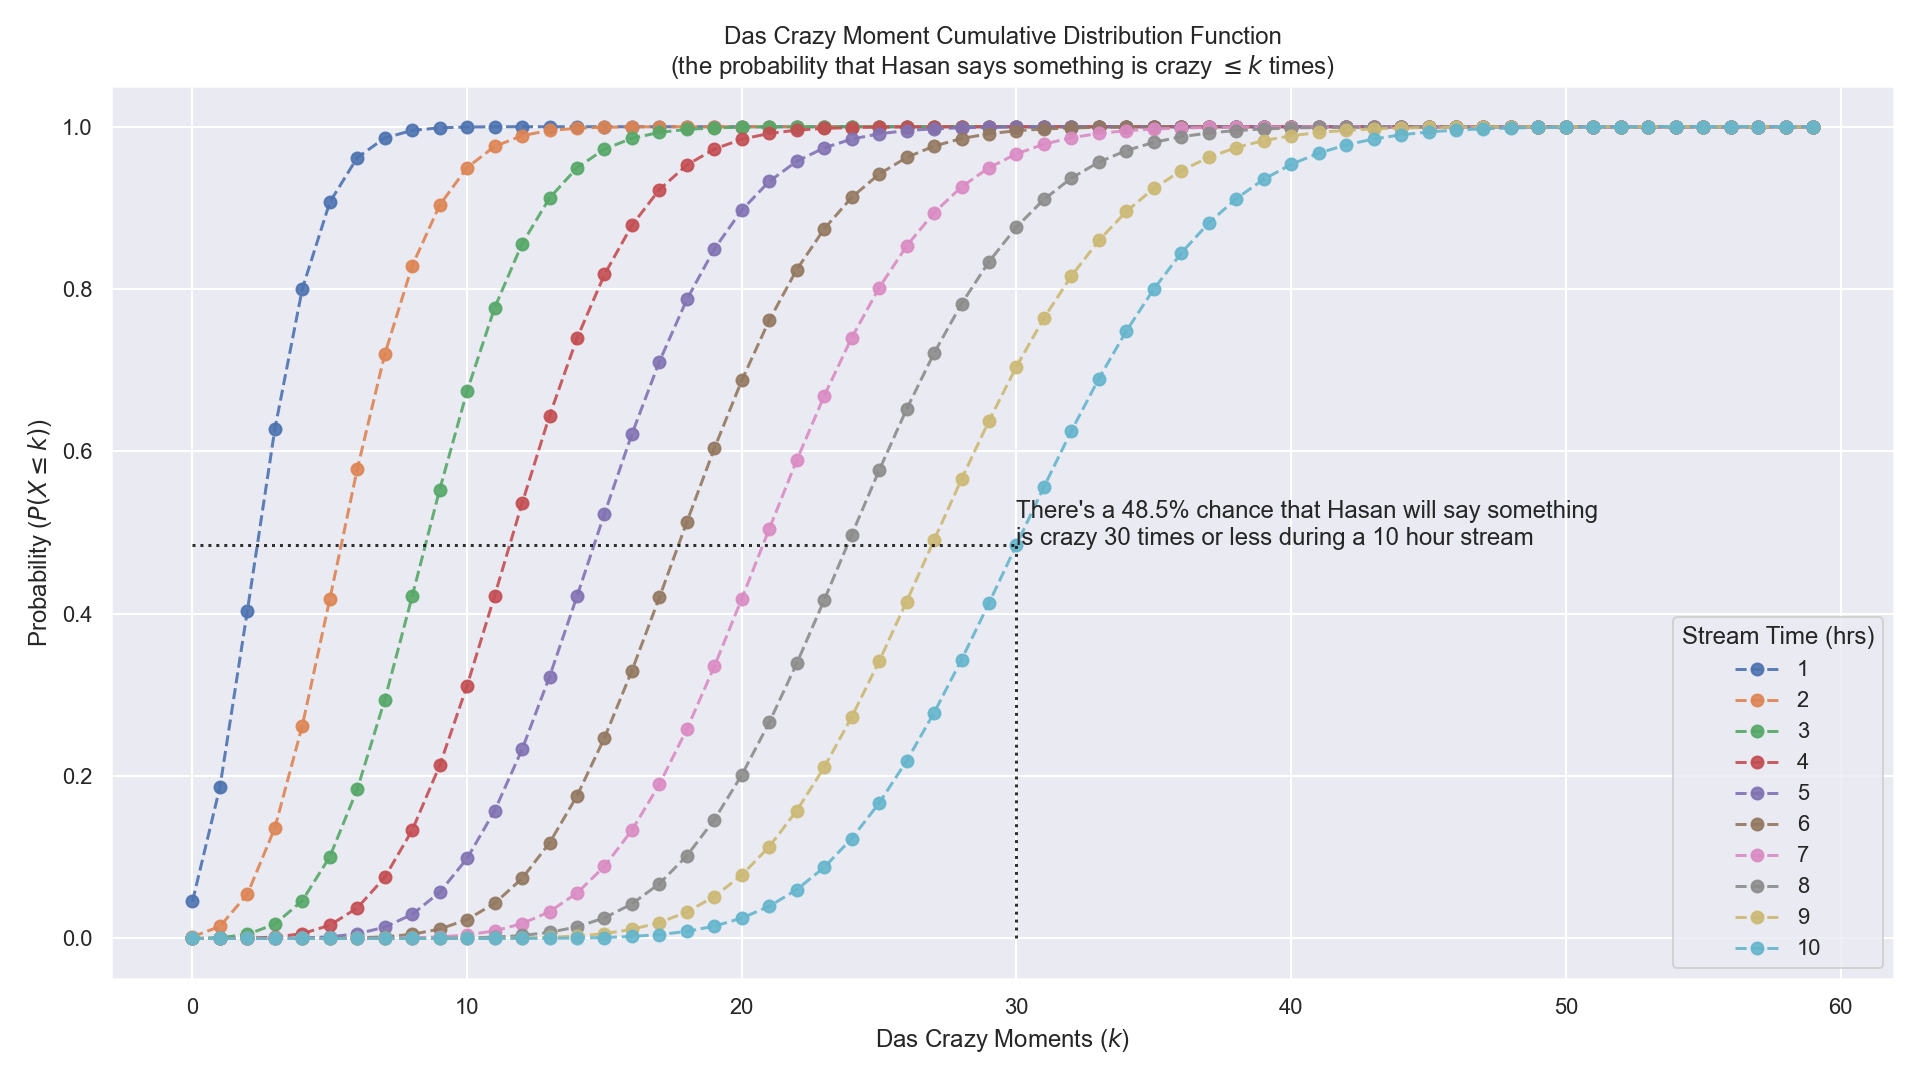
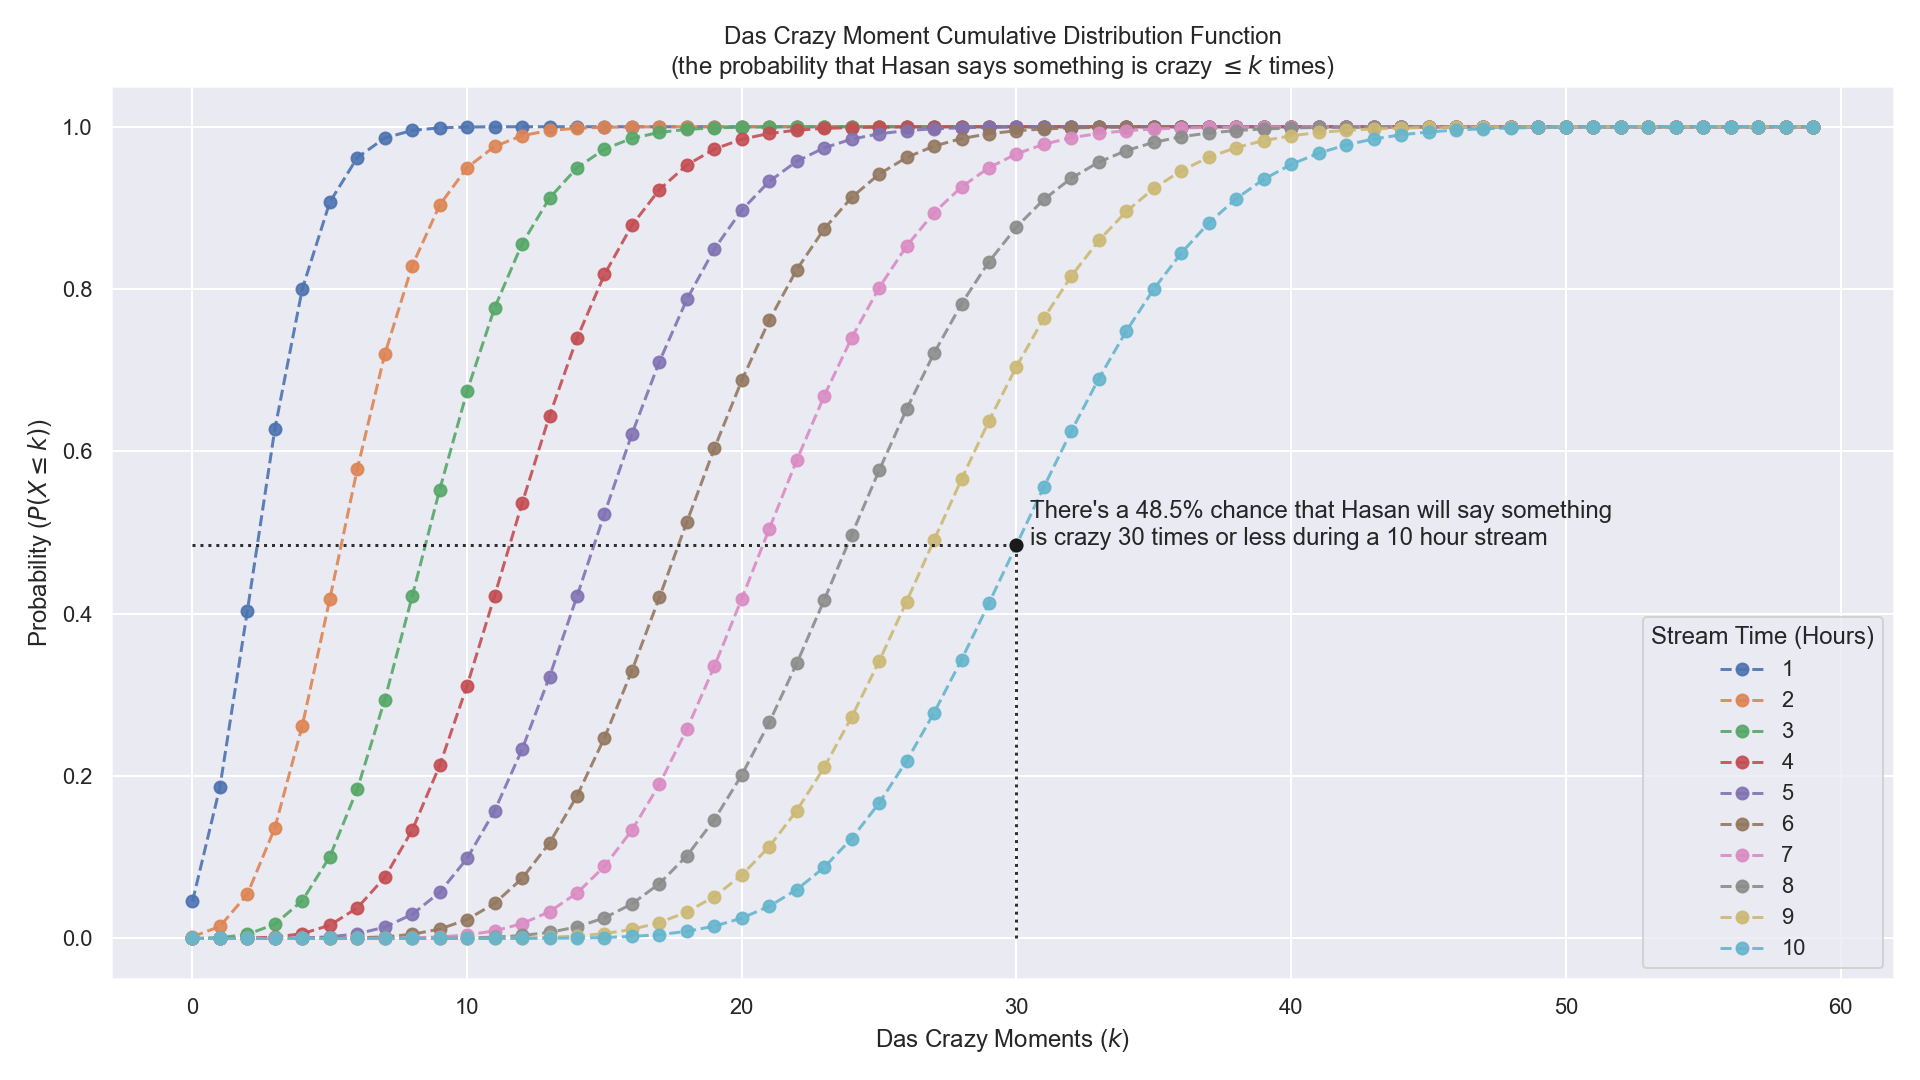
Edited poisson graphs, added timeline visual

Changed region(s): [[0.5312, 0.4583, 0.8438, 0.5194], [0.8438, 0.5806, 0.9688, 0.8861]]

diff --git a/main.py b/main.py
@@ -1,18 +1,22 @@
 from collections import Counter
 from datetime import date, timedelta
-from typing import Annotated, Optional, Sequence, TypeVar
+from typing import Annotated, Callable, Optional, Sequence, TypeVar
 
 import matplotlib as mpl
+import matplotlib.dates as mdates
 import matplotlib.pyplot as plt
 import numpy as np
 import pandas as pd
 import seaborn
-from matplotlib.colors import ListedColormap
 from scipy.stats import poisson
 
 from util import load
 
 seaborn.set()
+
+# Top 100 chat users
+with open("./data/top100_users.txt", "r") as f:
+    TOP100_USERS = {line.strip() for line in f}
 
 # Figure size configuration
 # Used to convert matplotlib figsize dimensions to pixels
@@ -27,7 +31,7 @@ MOMENT_RATE = 0.000857682
 DAYS = ("SUN", "MON", "TUE", "WED", "THU", "FRI", "SAT")
 
 # Custom colormap for user mentions plot
-CMAP_BIFLAG = ListedColormap(mpl.cm.plasma(np.linspace(0.0, 0.5, 256)))
+CMAP_BIFLAG = mpl.colors.ListedColormap(mpl.cm.plasma(np.linspace(0.0, 0.5, 256)))
 
 # Type vars
 Hours = TypeVar("Hours")
@@ -43,6 +47,32 @@ def init_plot() -> tuple[mpl.figure.Figure, mpl.axes.Axes]:
     return plt.subplots(figsize=(FIG_WIDTH, FIG_HEIGHT), tight_layout=True, dpi=DPI)
 
 
+def line_segment(ax: mpl.axes.Axes, xy1: tuple[float, float], xy2: tuple[float, float]) -> None:
+    """
+    Plot a line segment
+
+    Args:
+        ax: Axes to plot on
+        xy1: Starting coordinate
+        xy2: Ending coordinate
+    """
+    ax.plot((xy1[0], xy2[0]), (xy1[1], xy2[1]), ":", color="k", alpha=0.9)
+
+
+def trace_coordinate(ax: mpl.axes.Axes, xy: tuple[float, float]) -> None:
+    """
+    Plot line segments converging to a single coordinate
+
+    Args:
+        ax: Axes to plot on
+        xy: Coordinate to converge on
+    """
+    x, y = xy
+    line_segment(ax, (x, 0), (x, y))
+    line_segment(ax, (0, y), (x, y))
+    ax.plot(x, y, "o", color="k")
+
+
 def user_mentions(df: pd.DataFrame, top: int = 25) -> None:
     """
     Plots a frequency chart of the top peepoHas users
@@ -56,13 +86,78 @@ def user_mentions(df: pd.DataFrame, top: int = 25) -> None:
     freqs = df["user"].value_counts().drop("braedynl_")[:top]
     y_pos = np.arange(top - 1, -1, -1)
 
-    ax.barh(y_pos, freqs.values, color=np.flipud(CMAP_BIFLAG(np.linspace(0, 1, 25))))
+    ax.barh(y_pos, freqs.values, color=np.flipud(CMAP_BIFLAG(np.linspace(0, 1, top))))
     ax.set_yticks(y_pos)
     ax.set_yticklabels(freqs.index)
 
-    ax.set_title(f"Top {top} 'peepoHas' Users")
+    # Drawing a line marking the end of the top user's freq bar
+    user, x, y = freqs.index[0], freqs.values[0], y_pos[0]
+    line_segment(ax, (x, 0), (x, y))
+
+    ax.text(
+        x - 1, y / 2, f"Top peepoHas user during the analysis period\n'{user}' with ~{x} peepoHas mentions!", ha="right"
+    )
+
+    # Coloring top 100 user tick labels red
+    ticklabels = ax.get_yticklabels()
+    for ticklabel in ticklabels:
+        if ticklabel.get_text() in TOP100_USERS:
+            ticklabel.set_color("C3")
+
+    ax.set_title(
+        f"Top {top} 'peepoHas' Users\n(red username = among the top 100 users with the most messages sent in Hasan's chat)"
+    )
     ax.set_xlabel("Mentions")
     ax.set_ylabel("User")
+
+    plt.show()
+
+
+def das_crazy_timeline(df: pd.DataFrame) -> None:
+    """
+    Plots days versus time with a marker signifying every das crazy moment
+
+    Args:
+        df: Chat-log dataset
+    """
+
+    # Matplotlib doesn't allow you to make a purely time-based axis, you HAVE to pair it with a date,
+    # so there's a lot of odd workarounds that you'll see here (I just chose the Unix epoch)
+
+    ts_start = pd.Timestamp("1970-01-01 14:00:00")
+    ts_stop = pd.Timestamp("1970-01-01 23:59:59")
+
+    days = sorted(list({date(ts.year, ts.month, ts.day) for _, ts in df["sent"].iteritems()}))
+    times = pd.date_range(ts_start, ts_stop, freq="S")
+
+    occur_map = pd.DataFrame(index=times, columns=days, dtype=int).fillna(0)
+
+    for _, ts in df["sent"].iteritems():
+        time = pd.Timestamp(year=1970, month=1, day=1, hour=ts.hour, minute=ts.minute, second=ts.second)
+        day = date(year=ts.year, month=ts.month, day=ts.day)
+        occur_map.at[time, day] = 1
+
+    fig, ax = init_plot()
+
+    # ax.hlines(range(len(occur_map.columns)), ts_start, ts_stop, color="k")
+
+    for y_pos, col in enumerate(occur_map.columns, start=-1):
+        occur = occur_map[col][occur_map[col] == 1] + y_pos
+        ax.plot(occur.index, occur.values, "-o", color="k", markerfacecolor="w")
+
+    ax.set_yticks(range(len(occur_map.columns)))
+    ax.set_yticklabels(occur_map.columns)
+
+    hours = mdates.HourLocator(interval=1)
+    h_fmt = mdates.DateFormatter("%I %p")
+    ax.xaxis.set_major_locator(hours)
+    ax.xaxis.set_major_formatter(h_fmt)
+
+    ax.set_xlim((ts_start, ts_stop + timedelta(seconds=1)))
+
+    ax.set_title("Das Crazy Moment Timeline\n(each dot = Hasan said something was crazy)")
+    ax.set_xlabel("Time (Eastern)")
+    ax.set_ylabel("Date")
 
     plt.show()
 
@@ -115,7 +210,7 @@ def das_crazy_heatmap(df: pd.DataFrame) -> None:
 
 
 def das_crazy_distribution(
-    poisson_func,
+    poisson_func: Callable[[Sequence[int], float], Sequence[float]],
     time_range: Sequence[Annotated[float, Hours]],
     moment_range: Sequence[int],
     title: Optional[str] = None,
@@ -135,16 +230,18 @@ def das_crazy_distribution(
     """
     fig, ax = init_plot()
 
+    # Using the derived Poisson mu, mu = r*t, where r is the event rate and t is an interval of time
+    # in this case, r being the rate of crazy mentions and t being the length of the stream
     for time in time_range:
         mu = MOMENT_RATE * (time * 3600)
         prob_range = poisson_func(moment_range, mu)
-        ax.plot(moment_range, prob_range, "o--", label=f"{time}", alpha=0.9)
+        ax.plot(moment_range, prob_range, "o--", label=time, alpha=0.9)
 
     ax.set_title(title)
     ax.set_xlabel(xlabel)
     ax.set_ylabel(ylabel)
 
-    ax.legend(title="Stream Time (hrs)")
+    ax.legend(title="Stream Time (Hours)")
 
     return ax
 
@@ -169,11 +266,10 @@ def das_crazy_pmf(time_range: Sequence[Annotated[float, Hours]], moment_range: S
     t = time_range[3]
     x = 12
     y = poisson.pmf(x, MOMENT_RATE * (t * 3600))
-    ax.plot((x, x), (0, y), ":", color="k", alpha=0.9)
-    ax.plot((0, x), (y, y), ":", color="k", alpha=0.9)
+    trace_coordinate(ax, (x, y))
     ax.annotate(
         f"There's an {y:.1%} chance that Hasan will say something\nis crazy exactly {x} times during a {t} hour stream",
-        (x, y),
+        (x + 0.5, y),
     )
 
     plt.show()
@@ -199,11 +295,10 @@ def das_crazy_cdf(time_range: Sequence[Annotated[float, Hours]], moment_range: S
     t = time_range[-1]
     x = 30
     y = poisson.cdf(x, MOMENT_RATE * (t * 3600))
-    ax.plot((x, x), (0, y), ":", color="k", alpha=0.9)
-    ax.plot((0, x), (y, y), ":", color="k", alpha=0.9)
+    trace_coordinate(ax, (x, y))
     ax.annotate(
         f"There's a {y:.1%} chance that Hasan will say something\nis crazy {x} times or less during a {t} hour stream",
-        (x, y),
+        (x + 0.5, y),
     )
 
     plt.show()
@@ -215,6 +310,7 @@ def main():
 
     user_mentions(df_raw)
 
+    das_crazy_timeline(df_clean)
     das_crazy_heatmap(df_clean)
     das_crazy_pmf(range(1, 11), range(0, 60))
     das_crazy_cdf(range(1, 11), range(0, 60))

diff --git a/util.py b/util.py
@@ -15,7 +15,7 @@ def load(filename: str) -> pd.DataFrame:
     Returns:
         Chat-log dataset
     """
-    df = pd.read_csv(f"data/{filename}.csv")
+    df = pd.read_csv(f"./data/{filename}.csv")
     df["sent"] = pd.to_datetime(df["sent"], infer_datetime_format=True)
     return df
 
